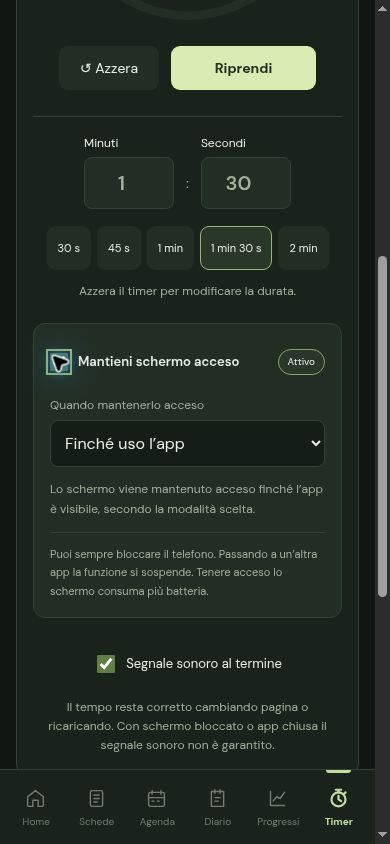
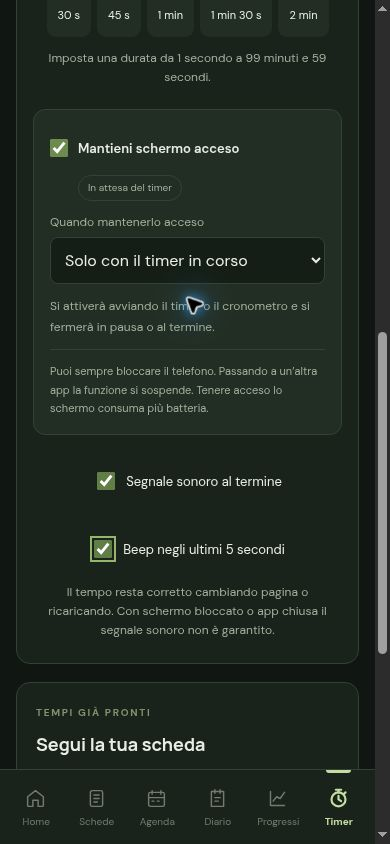
Add independent countdown beeps for the final five seconds and visual cues

diff --git a/dist/timer.js b/dist/timer.js
@@ -1,18 +1,19 @@
 /* A single persistent timer shared by free training and exercise presets. */
 const TIMER_KEY = 'forma-training-timer-v1';
-const TIMER_DEFAULT = {mode:'countdown',status:'ready',durationMs:90000,remainingMs:90000,endAt:null,elapsedMs:0,startedAt:null,label:'Timer libero',sound:true};
+const TIMER_DEFAULT = {mode:'countdown',status:'ready',durationMs:90000,remainingMs:90000,endAt:null,elapsedMs:0,startedAt:null,label:'Timer libero',sound:true,countdownSound:true};
 function restoreTimer(){
   try {
     const saved=JSON.parse(localStorage.getItem(TIMER_KEY));
     if(!saved||!['countdown','stopwatch'].includes(saved.mode)||!['ready','running','paused','finished'].includes(saved.status))return {...TIMER_DEFAULT};
     const t={...TIMER_DEFAULT,...saved};
+    if(typeof saved.countdownSound!=='boolean')t.countdownSound=t.sound!==false;
     if(![t.durationMs,t.remainingMs,t.elapsedMs].every(n=>Number.isFinite(n)&&n>=0)||t.durationMs<1000||t.durationMs>5999000)return {...TIMER_DEFAULT};
     if(t.status==='running'&&!Number.isFinite(t.mode==='countdown'?t.endAt:t.startedAt))return {...TIMER_DEFAULT};
     if(t.mode==='countdown'&&t.status==='running'&&t.endAt<=Date.now())return {...t,status:'finished',remainingMs:0,endAt:null};
     return t;
   }catch{return {...TIMER_DEFAULT};}
 }
-let trainingTimer=restoreTimer(),timerAudio=null;
+let trainingTimer=restoreTimer(),timerAudio=null,timerLastCountdownSecond=null;
 function timerPersist(){try{localStorage.setItem(TIMER_KEY,JSON.stringify(trainingTimer))}catch{}}
 function timerValue(now=Date.now()){
   const t=trainingTimer;
@@ -21,12 +22,23 @@ function timerValue(now=Date.now()){
 function timerFormat(ms,ceil=false){const total=Math.max(0,ceil?Math.ceil(ms/1000):Math.floor(ms/1000));const h=Math.floor(total/3600);return (h?String(h).padStart(2,'0')+':':'')+String(Math.floor(total/60)%60).padStart(2,'0')+':'+String(total%60).padStart(2,'0');}
 function timerStatus(){const t=trainingTimer;return t.status==='finished'?'Tempo concluso':t.status==='running'?(t.mode==='stopwatch'?'Cronometro in corso':'Conto alla rovescia'):t.status==='paused'?'In pausa':'Pronto a partire';}
 function timerUnlockAudio(){
-  if(!trainingTimer.sound)return;
+  if(!trainingTimer.sound&&!trainingTimer.countdownSound)return;
   try{const Audio=window.AudioContext||window.webkitAudioContext;if(Audio){if(!timerAudio)timerAudio=new Audio();timerAudio.resume().catch(()=>{});}}catch{}
 }
-function timerChime(){
-  if(!trainingTimer.sound||document.hidden||!timerAudio||timerAudio.state!=='running')return;
-  try{for(let i=0;i<3;i++){const osc=timerAudio.createOscillator(),gain=timerAudio.createGain(),start=timerAudio.currentTime+i*.3;osc.type='sine';osc.frequency.value=i===2?880:660;gain.gain.setValueAtTime(0,start);gain.gain.linearRampToValueAtTime(.16,start+.015);gain.gain.exponentialRampToValueAtTime(.001,start+.22);osc.connect(gain);gain.connect(timerAudio.destination);osc.start(start);osc.stop(start+.24);}}catch{}
+function timerPlayTone(frequency,duration,offset=0){
+  if(document.hidden||!timerAudio||timerAudio.state!=='running')return false;
+  try{const osc=timerAudio.createOscillator(),gain=timerAudio.createGain(),start=timerAudio.currentTime+offset;osc.type='sine';osc.frequency.value=frequency;gain.gain.setValueAtTime(0,start);gain.gain.linearRampToValueAtTime(.16,start+.012);gain.gain.exponentialRampToValueAtTime(.001,start+duration);osc.connect(gain);gain.connect(timerAudio.destination);osc.start(start);osc.stop(start+duration+.02);return true;}catch{return false}
+}
+function timerChime(){if(!trainingTimer.sound)return;for(let i=0;i<3;i++)timerPlayTone(i===2?880:660,.22,i*.3);}
+function timerCheckCountdownSound(){
+  const t=trainingTimer;
+  if(t.mode!=='countdown'||t.status==='ready'||t.status==='finished'){timerLastCountdownSecond=null;return;}
+  if(t.status!=='running')return;
+  const second=Math.ceil(timerValue()/1000);
+  if(second===timerLastCountdownSecond)return;
+  // One cue for the current displayed second; never replay missed cues after backgrounding.
+  if(!t.countdownSound||second<1||second>5||document.hidden){timerLastCountdownSecond=second;return;}
+  if(timerPlayTone(720,.10))timerLastCountdownSecond=second;
 }
 function timerPage(){
   const t=trainingTimer,busy=t.status==='running'||t.status==='paused';
@@ -39,12 +51,13 @@ function timerPage(){
     ${t.mode==='countdown'?`<div class="timer-settings"><div class="timer-duration"><div><label for="timer-minutes">Minuti</label><input id="timer-minutes" type="number" inputmode="numeric" min="0" max="99" step="1" value="${Math.floor(t.durationMs/60000)}" ${busy?'disabled':''} onchange="timerEditDuration()"></div><span>:</span><div><label for="timer-seconds">Secondi</label><input id="timer-seconds" type="number" inputmode="numeric" min="0" max="59" step="1" value="${(t.durationMs/1000)%60}" ${busy?'disabled':''} onchange="timerEditDuration()"></div></div><div class="timer-presets" aria-label="Durate rapide">${[30,45,60,90,120].map(n=>`<button class="${t.durationMs===n*1000?'chosen':''}" onclick="timerPreset(${n})">${n<60?n+' s':n%60?Math.floor(n/60)+' min '+n%60+' s':n/60+' min'}</button>`).join('')}</div><p class="small" id="timer-validation" role="status">${busy?'Azzera il timer per modificare la durata.':'Imposta una durata da 1 secondo a 99 minuti e 59 secondi.'}</p></div>`:'<div class="hint">Misura liberamente la durata della sessione. Puoi mettere in pausa e riprendere quando vuoi.</div>'}
     ${screenWakeSettingsHTML()}
     <label class="timer-sound"><input type="checkbox" ${t.sound?'checked':''} onchange="timerSetSound(this.checked)"> Segnale sonoro al termine</label>
+    ${t.mode==='countdown'?`<label class="timer-sound"><input type="checkbox" ${t.countdownSound?'checked':''} onchange="timerSetCountdownSound(this.checked)"> Beep negli ultimi 5 secondi</label>`:''}
     <p class="timer-note small">Il tempo resta corretto cambiando pagina o ricaricando. Con schermo bloccato o app chiusa il segnale sonoro non è garantito.</p>
   </section><div class="timer-sidebar"><section class="card"><span class="eyebrow" style="color:#83916f">TEMPI GIÀ PRONTI</span><h2 style="margin:12px 0 8px">Segui la tua scheda</h2><p class="small">Apri un esercizio e scegli il timer di lavoro o di recupero. Le durate sono già impostate dal programma.</p><div class="timer-example"><span>Plank · Sessione A</span><strong>40 s <small>lavoro</small> / 45 s <small>recupero</small></strong></div><button class="light" style="width:100%" onclick="go('plans')">Apri le schede →</button></section><section class="card timer-tip"><h3>Una serie alla volta.</h3><p class="small" style="margin-top:10px">I tempi di recupero fanno parte dell’allenamento. Usali per ritrovare il respiro e prepararti alla prossima serie.</p></section></div></div>`;
 }
 function timerHasProgress(){const t=trainingTimer;return t.status==='running'||t.status==='paused';}
 function timerApplyConfig(config){
-  const sound=trainingTimer.sound;trainingTimer={...TIMER_DEFAULT,...config,sound,status:'ready',remainingMs:config.durationMs||TIMER_DEFAULT.durationMs,endAt:null,elapsedMs:0,startedAt:null};timerPersist();
+  const sound=trainingTimer.sound,countdownSound=trainingTimer.countdownSound;timerLastCountdownSecond=null;trainingTimer={...TIMER_DEFAULT,...config,sound,countdownSound,status:'ready',remainingMs:config.durationMs||TIMER_DEFAULT.durationMs,endAt:null,elapsedMs:0,startedAt:null};timerPersist();
   if($('#modal').open)$('#modal').close();go('timer');timerUpdate();
 }
 let pendingTimerConfig=null;
@@ -76,14 +89,16 @@ function timerToggle(){
   timerPersist();if(page==='timer')render();timerUpdate();
 }
 function timerReset(){
-  const t=trainingTimer;t.status='ready';t.remainingMs=t.durationMs;t.elapsedMs=0;t.endAt=null;t.startedAt=null;timerPersist();if(page==='timer')render();timerUpdate();
+  const t=trainingTimer;timerLastCountdownSecond=null;t.status='ready';t.remainingMs=t.durationMs;t.elapsedMs=0;t.endAt=null;t.startedAt=null;timerPersist();if(page==='timer')render();timerUpdate();
 }
 function timerSetSound(enabled){trainingTimer.sound=enabled;timerPersist();if(enabled)timerUnlockAudio();}
+function timerSetCountdownSound(enabled){trainingTimer.countdownSound=enabled;timerPersist();if(enabled)timerUnlockAudio();}
 function timerUpdate(){
   const t=trainingTimer;
   if(t.status==='running'&&t.mode==='countdown'&&timerValue()<=0){t.status='finished';t.remainingMs=0;t.endAt=null;timerPersist();timerChime();if(page==='timer')render();const announce=$('#timer-announcement');if(announce)announce.textContent='Timer concluso. '+t.label;}
+  timerCheckCountdownSound();
   if(typeof screenWakeTimerChanged==='function')screenWakeTimerChanged(t.status);
-  const text=timerFormat(timerValue(),t.mode==='countdown'),digits=$('#timer-digits');if(digits)digits.textContent=text;
+  const text=timerFormat(timerValue(),t.mode==='countdown'),digits=$('#timer-digits');if(digits){digits.textContent=text;digits.classList.toggle('timer-final-countdown',t.mode==='countdown'&&t.status==='running'&&timerValue()>0&&timerValue()<=5000);}
   const status=$('#timer-status');if(status)status.textContent=timerStatus();
   const dial=$('#timer-dial');if(dial){dial.style.setProperty('--timer-progress',t.mode==='countdown'?Math.max(0,Math.min(100,(t.durationMs-timerValue())/t.durationMs*100))+'%':'100%');dial.classList.toggle('finished',t.status==='finished');}
   const dock=$('#timer-dock');if(!dock)return;

diff --git a/dist/timer.css b/dist/timer.css
@@ -1,2 +1,4 @@
 .timer-layout{display:grid;grid-template-columns:minmax(0,1.6fr) minmax(260px,1fr);gap:24px;max-width:1100px}.timer-main{text-align:center;padding:28px 35px}.timer-modes{display:flex;background:#f2f4ec;border-radius:10px;padding:4px;max-width:420px;margin:auto;gap:4px}.timer-modes button{background:none;color:#798270;flex:1;font-size:12px;padding:12px 8px}.timer-modes button.selected{background:white;box-shadow:0 2px 6px #2433290c;color:var(--green);font-weight:700}.timer-context{margin:30px 0 22px;color:#6e805b;letter-spacing:1px}.timer-dial{--timer-progress:0%;width:270px;height:270px;border-radius:50%;padding:9px;margin:auto;background:conic-gradient(#7f9c5c var(--timer-progress),#edf1e5 0);transition:background .15s}.timer-dial.finished{background:#99b86c}.timer-dial-inner{height:100%;border-radius:50%;background:#fafbf6;display:flex;flex-direction:column;align-items:center;justify-content:center}.timer-status{font-size:12px;color:#7d8872}.timer-digits{font:600 56px Manrope,Arial,sans-serif;letter-spacing:-2px;font-variant-numeric:tabular-nums;margin:9px 0}.timer-dial-inner>.small{font-size:9px;letter-spacing:1.7px}.timer-actions{display:flex;justify-content:center;gap:12px;margin:26px auto;max-width:380px}.timer-actions button{min-width:120px}.timer-actions .timer-start{min-width:160px;background:var(--green);font-weight:700}.timer-settings{border-top:1px solid var(--line);padding-top:18px}.timer-duration{display:flex;gap:12px;align-items:center;justify-content:center}.timer-duration>div{width:90px}.timer-duration label{text-align:left;margin-top:0}.timer-duration input{text-align:center;font-variant-numeric:tabular-nums;font-size:20px;font-weight:600}.timer-duration>span{padding-top:23px;color:#879678}.timer-duration input:disabled{background:#f3f4ee;color:#9ca591;cursor:not-allowed}.timer-presets{display:flex;justify-content:center;gap:7px;margin:17px 0 12px;flex-wrap:wrap}.timer-presets button{padding:8px 13px;background:#f3f5ed;color:#647451;font-size:11px;border:1px solid transparent}.timer-presets button.chosen{border-color:#9bb576;background:#eef4e3}.timer-sound{display:flex;align-items:center;justify-content:center;gap:8px;font-size:12px;margin:24px 0 12px}.timer-sound input{width:16px;height:16px;accent-color:#617e47}.timer-note{font-size:11px;max-width:400px;margin:auto}.timer-sidebar{display:grid;align-content:start;gap:20px}.timer-example{margin:24px 0;padding:18px;background:#f3f5ed;border-radius:10px;text-align:left}.timer-example span{display:block;color:#748165;font-size:12px;margin-bottom:10px}.timer-example strong{font-size:20px;font-weight:500}.timer-example small{font-size:11px;color:#7b886c}.timer-tip{background:#edf2e4;border-color:#e3ebd6}.exercise-heading{display:flex;justify-content:space-between;gap:12px;align-items:start}.exercise-timers{display:flex;gap:8px;flex-wrap:wrap;margin-top:12px}.exercise-timers button{padding:8px 11px;background:#edf2e4;color:#4f693c;font-size:11px}.timer-confirm{display:flex;justify-content:flex-end;gap:10px;margin-top:25px}.timer-confirm button{font-size:12px}.timer-dock{position:fixed;bottom:23px;left:calc(235px + (100% - 235px)/2);transform:translateX(-50%);width:min(550px,calc(100% - 275px));background:#263d30;color:white;border:1px solid #5f7456;border-radius:12px;padding:12px 14px;box-shadow:0 8px 35px #17321a35;display:flex;align-items:center;gap:15px;z-index:7}.timer-dock[hidden]{display:none}.timer-dock-main{background:none;text-align:left;display:flex;gap:15px;align-items:center;flex:1;padding:0;min-width:0}.timer-dock-clock{font-size:25px;font-weight:600;font-variant-numeric:tabular-nums;min-width:72px;white-space:nowrap}.timer-dock-text{min-width:0}.timer-dock-name{display:block;font-size:12px;font-weight:600;overflow:hidden;text-overflow:ellipsis;white-space:nowrap;max-width:290px}.timer-dock-status{display:block;font-size:10px;color:#b7c7ab;margin-top:3px}.timer-dock>button{background:#d9ecb4;color:#263d30;font-size:12px;min-width:77px;padding:10px}.sr-only{position:absolute;width:1px;height:1px;padding:0;margin:-1px;overflow:hidden;clip:rect(0,0,0,0);white-space:nowrap;border:0}body:has(.timer-dock:not([hidden])) main{padding-bottom:110px}
 @media(max-width:1100px){.timer-main{padding:24px 20px}.timer-dock{left:calc(190px + (100% - 190px)/2);width:min(550px,calc(100% - 230px))}}@media(max-width:800px){.timer-layout{grid-template-columns:1fr;gap:18px}.timer-main{padding:22px 16px}.timer-dial{width:245px;height:245px}.timer-digits{font-size:50px}.timer-context{margin-top:25px}.timer-presets{gap:6px}.timer-presets button{padding:8px 10px}.timer-dock{left:50%;bottom:calc(84px + env(safe-area-inset-bottom,0px));width:calc(100% - 24px);padding:10px 12px;gap:10px}.timer-dock-name{max-width:180px;font-size:11px}.timer-dock-clock{font-size:22px;min-width:67px}.timer-dock-main{gap:10px}.timer-dock>button{min-width:68px;padding:10px 8px;font-size:11px}.nav button{font-size:9px;min-width:0}.nav i{width:auto}.timer-actions button{min-width:100px}.timer-actions .timer-start{min-width:145px}body:has(.timer-dock:not([hidden])) main{padding-bottom:180px}aside{height:calc(75px + env(safe-area-inset-bottom,0px));padding-bottom:env(safe-area-inset-bottom,0px)}.timer-confirm{flex-wrap:wrap}}@media(prefers-reduced-motion:reduce){.timer-dial{transition:none}}
+
+.timer-digits.timer-final-countdown{color:#9a682d}.timer-final-countdown{font-weight:800}html[data-theme="dark"] .timer-digits.timer-final-countdown{color:#f0ca86}

diff --git a/dist/sw.js b/dist/sw.js
@@ -1,1 +1,1 @@
-const CACHE='forma-v6';self.addEventListener('install',e=>{e.waitUntil(caches.open(CACHE).then(c=>c.addAll(['/','/icon.svg','/manifest.webmanifest','/timer.js','/timer.css','/theme.js','/theme.css','/exercise-guides.js','/exercise-guides.css','/exercise-figures.js','/calendar.js','/calendar.css','/screen-awake.js','/screen-awake.css','/icon-192.png','/icon-512.png'])));self.skipWaiting()});self.addEventListener('activate',e=>e.waitUntil(Promise.all([caches.keys().then(keys=>Promise.all(keys.filter(k=>k.startsWith('forma-')&&k!==CACHE).map(k=>caches.delete(k)))),self.clients.claim()])));self.addEventListener('fetch',e=>{if(new URL(e.request.url).origin!==location.origin||e.request.method!=='GET')return;e.respondWith(fetch(e.request).then(r=>{if(r.ok){const copy=r.clone();caches.open(CACHE).then(c=>c.put(e.request,copy))}return r}).catch(()=>caches.match(e.request).then(r=>r||(e.request.mode==='navigate'?caches.match('/'):Response.error()))))});
+const CACHE='forma-v7';self.addEventListener('install',e=>{e.waitUntil(caches.open(CACHE).then(c=>c.addAll(['/','/icon.svg','/manifest.webmanifest','/timer.js','/timer.css','/theme.js','/theme.css','/exercise-guides.js','/exercise-guides.css','/exercise-figures.js','/calendar.js','/calendar.css','/screen-awake.js','/screen-awake.css','/icon-192.png','/icon-512.png'])));self.skipWaiting()});self.addEventListener('activate',e=>e.waitUntil(Promise.all([caches.keys().then(keys=>Promise.all(keys.filter(k=>k.startsWith('forma-')&&k!==CACHE).map(k=>caches.delete(k)))),self.clients.claim()])));self.addEventListener('fetch',e=>{if(new URL(e.request.url).origin!==location.origin||e.request.method!=='GET')return;e.respondWith(fetch(e.request).then(r=>{if(r.ok){const copy=r.clone();caches.open(CACHE).then(c=>c.put(e.request,copy))}return r}).catch(()=>caches.match(e.request).then(r=>r||(e.request.mode==='navigate'?caches.match('/'):Response.error()))))});

diff --git a/docs/screen-awake.md b/docs/screen-awake.md
@@ -22,3 +22,9 @@ La Screen Wake Lock API richiede un contesto sicuro (HTTPS o localhost) e può e
 Riferimenti: [MDN: Screen Wake Lock](https://developer.mozilla.org/en-US/docs/Web/API/Screen_Wake_Lock_API) e [request()](https://developer.mozilla.org/en-US/docs/Web/API/WakeLock/request).
 
 Test automatici: attivazione per modalità, rilascio in pausa/fine timer e background, riacquisizione, errori, supporto mancante, richieste pendenti invalidate e persistenza delle preferenze. Verifica UI nel browser con concessione reale dell'API e stato attivo, pausa e cambio modalità. Il blocco fisico e il comportamento energetico su un iPhone o Android reale richiedono verifica sul dispositivo.
+
+## Segnali del timer
+
+Le opzioni sonore sono indipendenti: **Segnale sonoro al termine** produce tre toni brevi, mentre **Beep negli ultimi 5 secondi** produce un tono a 5, 4, 3, 2 e 1 secondi. Il cronometro non ha un conto alla rovescia e non usa questi ultimi segnali. I cinque secondi finali vengono evidenziati anche visivamente.
+
+I suoni sono sintetizzati localmente con Web Audio, senza file o richieste di rete. L'avvio del timer o l'attivazione di un'opzione sonora prova a sbloccare il contesto audio. Le preferenze vengono conservate tra le sessioni; una preferenza silenziosa già esistente mantiene disabilitati anche i nuovi beep, salvo scelta esplicita. Non si riproducono segnali arretrati dopo il ritorno dal background.

diff --git a/README.md b/README.md
@@ -24,7 +24,7 @@ La cartella pubblicabile è `dist/`. Su hosting statico servire `index.html` e g
 - Calendario mensile con disponibilità pubblicate dal preparatore, prenotazione di slot liberi e annullamento. Le nuove prenotazioni sono confermate subito nella demo.
 - Comandi distinti per ruolo: il preparatore carica schede e gestisce gli orari; l’atleta consulta e registra i propri allenamenti. I controlli sono locali, non autenticazione.
 - Guide visuali per gli 11 esercizi/movimenti delle schede di esempio, pulsanti “i”, ricerca e illustrazioni SVG incluse nella cache offline.
-- Timer di lavoro e recupero preimpostati negli esercizi, conto alla rovescia libero e cronometro.
+- Timer di lavoro e recupero preimpostati negli esercizi, conto alla rovescia libero e cronometro. Segnale finale e beep negli ultimi cinque secondi, con opzioni indipendenti.
 - Timer persistente con scadenza assoluta: navigazione, refresh e sospensione della pagina non riavviano il conteggio. Il segnale audio richiede una pagina attiva; non è garantito con schermo bloccato o app chiusa.
 - Opzione “Mantieni schermo acceso” nella pagina Timer: durante il timer oppure per tutto l’uso visibile dell’app; stato effettivo e gestione delle interruzioni del sistema.
 - Tema automatico secondo il sistema, con scelta manuale chiaro/scuro salvata sul dispositivo.
